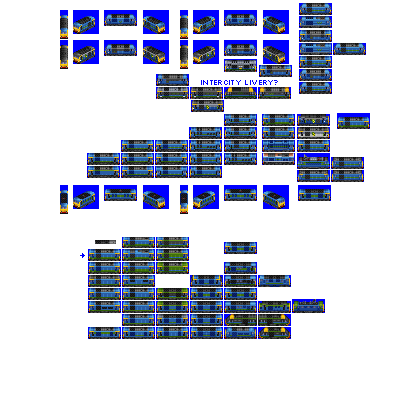
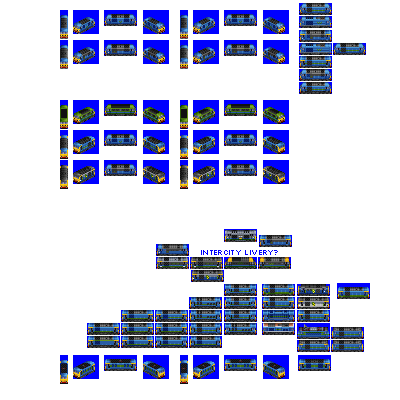
Change: sprites complete for Rapid

diff --git a/src/vehicles/rapid.py b/src/vehicles/rapid.py
@@ -20,7 +20,7 @@ def main(roster_id):
         speed=125,  # Rapid not replaced, but has gen 6 speeds
         fixed_run_cost_points=45,  # give a bonus so this can be a genuine mixed-traffic engine
         additional_liveries=["RES"],
-        sprites_complete=False,
+        sprites_complete=True,
     )
 
     consist.add_unit(
